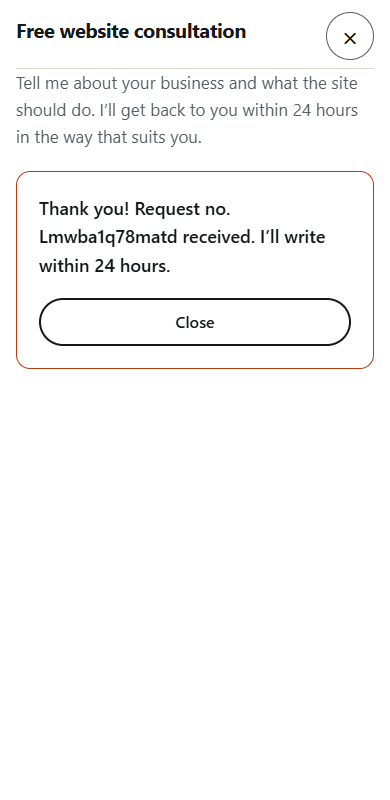
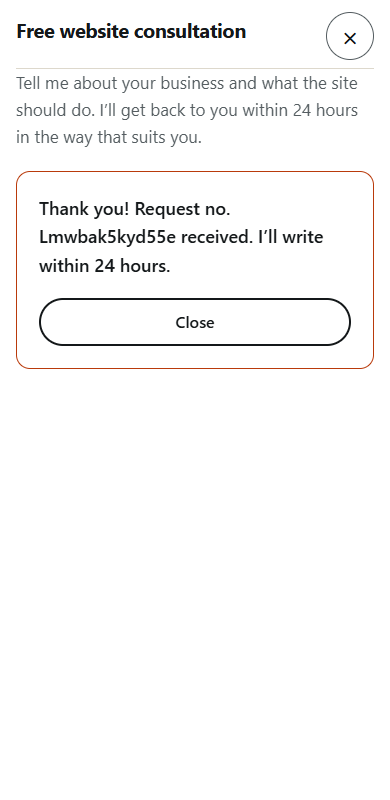
New prices (UAH on UA pages, USD on EN), deep_audit package
Main pages: new Deep Google Ads + GA4 audit card, updated prices, 4000 UAH / $100 landing promo with struck-through regular price, ads from price per month. /sites/: landing from 10 000 UAH / $250 with promo badge, site from 18 000 UAH / $450. deep_audit option in all form selects, JSON-LD offers with UAH/USD, meta descriptions, AGENTS.md. del and .card__promo styles. style.css v=8 on all six pages.

Changed region(s): [[0.2462, 0.2812, 0.8308, 0.3125]]

diff --git a/ua/index.html b/ua/index.html
@@ -4,7 +4,7 @@
 <meta charset="utf-8">
 <meta name="viewport" content="width=device-width, initial-scale=1">
 <title>Fitsak Studio — GA4, Google Ads і швидкі лендинги для малого бізнесу</title>
-<meta name="description" content="Максим Фіцак (Fitsak Studio) допомагає малому бізнесу та інтернет-магазинам: GA4 конверсійна аналітика, чистка Google Ads, швидкі лендинги. Безкоштовний аудит, аналітика від $150.">
+<meta name="description" content="Максим Фіцак (Fitsak Studio) допомагає малому бізнесу та інтернет-магазинам: GA4 конверсійна аналітика, чистка Google Ads, швидкі лендинги. Безкоштовний аудит, аналітика від 4 000 грн.">
 <meta name="color-scheme" content="light dark">
 <meta name="theme-color" content="#f6f4ef" media="(prefers-color-scheme: light)">
 <meta name="theme-color" content="#101312" media="(prefers-color-scheme: dark)">
@@ -27,7 +27,7 @@
 <meta property="og:locale" content="uk_UA">
 <meta property="og:locale:alternate" content="en_US">
 <meta name="twitter:card" content="summary_large_image">
-<link rel="stylesheet" href="../css/style.css?v=7">
+<link rel="stylesheet" href="../css/style.css?v=8">
 <script type="application/ld+json">
 {
   "@context": "https://schema.org",
@@ -54,11 +54,12 @@
       "areaServed": "Worldwide",
       "availableLanguage": ["Ukrainian", "English", "Czech"],
       "makesOffer": [
-        { "@type": "Offer", "itemOffered": { "@type": "Service", "name": "Безкоштовний аудит" }, "priceSpecification": { "@type": "PriceSpecification", "price": 0, "priceCurrency": "USD" } },
-        { "@type": "Offer", "itemOffered": { "@type": "Service", "name": "Аналітика під ключ" }, "priceSpecification": { "@type": "PriceSpecification", "minPrice": 150, "priceCurrency": "USD" } },
-        { "@type": "Offer", "itemOffered": { "@type": "Service", "name": "Ремонт сайту" }, "priceSpecification": { "@type": "PriceSpecification", "minPrice": 500, "priceCurrency": "USD" } },
-        { "@type": "Offer", "itemOffered": { "@type": "Service", "name": "Лендинг + аналітика" }, "priceSpecification": { "@type": "PriceSpecification", "minPrice": 500, "priceCurrency": "USD" } },
-        { "@type": "Offer", "itemOffered": { "@type": "Service", "name": "Ведення Google Ads" } }
+        { "@type": "Offer", "itemOffered": { "@type": "Service", "name": "Безкоштовний аудит" }, "priceSpecification": { "@type": "PriceSpecification", "price": 0, "priceCurrency": "UAH" } },
+        { "@type": "Offer", "itemOffered": { "@type": "Service", "name": "Глибокий аудит Google Ads + GA4" }, "priceSpecification": { "@type": "PriceSpecification", "price": 2000, "priceCurrency": "UAH" } },
+        { "@type": "Offer", "itemOffered": { "@type": "Service", "name": "Аналітика під ключ" }, "priceSpecification": { "@type": "PriceSpecification", "minPrice": 4000, "priceCurrency": "UAH" } },
+        { "@type": "Offer", "itemOffered": { "@type": "Service", "name": "Лендинг + аналітика" }, "priceSpecification": { "@type": "PriceSpecification", "minPrice": 10000, "priceCurrency": "UAH" } },
+        { "@type": "Offer", "itemOffered": { "@type": "Service", "name": "Ремонт сайту" }, "priceSpecification": { "@type": "PriceSpecification", "minPrice": 12000, "priceCurrency": "UAH" } },
+        { "@type": "Offer", "itemOffered": { "@type": "Service", "name": "Ведення Google Ads" }, "priceSpecification": { "@type": "PriceSpecification", "minPrice": 7000, "priceCurrency": "UAH" } }
       ]
     }
   ]
@@ -194,32 +195,38 @@
           <div class="card__head">
             <span class="badge">Почніть звідси</span>
             <h3>Безкоштовний аудит</h3>
-            <p class="card__price">$0</p>
+            <p class="card__price">0&nbsp;грн</p>
           </div>
           <p>3–5 конкретних проблем сайту чи реклами і скільки вони вам коштують.</p>
           <a class="btn btn--primary" href="#audit" data-service="audit" data-package="audit">Отримати аудит</a>
         </article>
         <article class="card">
+          <h3>Глибокий аудит Google Ads + GA4</h3>
+          <p class="card__price">2&nbsp;000&nbsp;грн</p>
+          <p>Повний розбір акаунта Google Ads і налаштувань GA4: що зливає бюджет, що не відстежується, і план виправлень у PDF.</p>
+          <a class="btn btn--small" href="#audit" data-service="deep_audit" data-package="deep_audit">Замовити</a>
+        </article>
+        <article class="card">
           <h3>Аналітика під ключ</h3>
-          <p class="card__price"><span>від</span>$150</p>
+          <p class="card__price"><span>від</span>4&nbsp;000&nbsp;грн</p>
           <p>GA4/GTM, події від кліку до заявки, перевірка й звіт.</p>
           <a class="btn btn--small" href="#audit" data-service="analytics" data-package="analytics">Обговорити</a>
         </article>
         <article class="card">
+          <h3>Лендинг + аналітика</h3>
+          <p class="card__price"><span>від</span>10&nbsp;000&nbsp;грн</p>
+          <p>Перші 3 клієнти — 4&nbsp;000&nbsp;грн замість <del>10&nbsp;000&nbsp;грн</del> в обмін на чесний відгук. До 30.11.2026, передоплата 50%.</p>
+          <a class="btn btn--small" href="sites/" data-service="landing">Детальніше</a>
+        </article>
+        <article class="card">
           <h3>Ремонт сайту</h3>
-          <p class="card__price"><span>від</span>$500</p>
+          <p class="card__price"><span>від</span>12&nbsp;000&nbsp;грн</p>
           <p>Помилки, мобільна версія, швидкість, форми й трекінг. Звіт до/після.</p>
           <a class="btn btn--small" href="#audit" data-service="repair" data-package="repair">Обговорити</a>
         </article>
         <article class="card">
-          <h3>Лендинг + аналітика</h3>
-          <p class="card__price"><span>від</span>$500</p>
-          <p>Перші 3 клієнти — $100 в обмін на чесний відгук. До 30.11.2026, передоплата 50%.</p>
-          <a class="btn btn--small" href="sites/" data-service="landing">Детальніше</a>
-        </article>
-        <article class="card">
           <h3>Ведення Google Ads</h3>
-          <p class="card__price card__price--text"><span>щомісяця</span>ціна після аудиту</p>
+          <p class="card__price"><span>від</span>7&nbsp;000&nbsp;грн<span>/міс</span></p>
           <p>Кампанії, мінус-слова, звіт щомісяця.</p>
           <a class="btn btn--small" href="#audit" data-service="ads" data-package="ads">Обговорити</a>
         </article>
@@ -332,6 +339,7 @@
           <label for="f-package">Пакет</label>
           <select id="f-package" name="package" aria-describedby="f-package-err">
             <option value="audit" selected>Безкоштовний аудит</option>
+            <option value="deep_audit">Глибокий аудит Google Ads + GA4 (PDF)</option>
             <option value="analytics">Аналітика під ключ</option>
             <option value="repair">Ремонт сайту</option>
             <option value="landing">Лендинг + аналітика</option>

diff --git a/index.html b/index.html
@@ -4,7 +4,7 @@
 <meta charset="utf-8">
 <meta name="viewport" content="width=device-width, initial-scale=1">
 <title>Fitsak Studio — GA4 tracking, Google Ads &amp; fast landing pages</title>
-<meta name="description" content="Maksym Fitsak (Fitsak Studio) helps small businesses and online stores with GA4 conversion tracking, Google Ads cleanup and fast landing pages. Free audit, analytics from $150.">
+<meta name="description" content="Maksym Fitsak (Fitsak Studio) helps small businesses and online stores with GA4 conversion tracking, Google Ads cleanup and fast landing pages. Free audit, analytics from $100.">
 <meta name="color-scheme" content="light dark">
 <meta name="theme-color" content="#f6f4ef" media="(prefers-color-scheme: light)">
 <meta name="theme-color" content="#101312" media="(prefers-color-scheme: dark)">
@@ -27,7 +27,7 @@
 <meta property="og:locale" content="en_US">
 <meta property="og:locale:alternate" content="uk_UA">
 <meta name="twitter:card" content="summary_large_image">
-<link rel="stylesheet" href="css/style.css?v=7">
+<link rel="stylesheet" href="css/style.css?v=8">
 <script type="application/ld+json">
 {
   "@context": "https://schema.org",
@@ -54,10 +54,11 @@
       "availableLanguage": ["Ukrainian", "English", "Czech"],
       "makesOffer": [
         { "@type": "Offer", "itemOffered": { "@type": "Service", "name": "Free audit" }, "priceSpecification": { "@type": "PriceSpecification", "price": 0, "priceCurrency": "USD" } },
-        { "@type": "Offer", "itemOffered": { "@type": "Service", "name": "Turnkey analytics" }, "priceSpecification": { "@type": "PriceSpecification", "minPrice": 150, "priceCurrency": "USD" } },
-        { "@type": "Offer", "itemOffered": { "@type": "Service", "name": "Site repair" }, "priceSpecification": { "@type": "PriceSpecification", "minPrice": 500, "priceCurrency": "USD" } },
-        { "@type": "Offer", "itemOffered": { "@type": "Service", "name": "Landing page + analytics" }, "priceSpecification": { "@type": "PriceSpecification", "minPrice": 500, "priceCurrency": "USD" } },
-        { "@type": "Offer", "itemOffered": { "@type": "Service", "name": "Google Ads management" } }
+        { "@type": "Offer", "itemOffered": { "@type": "Service", "name": "Deep Google Ads + GA4 audit" }, "priceSpecification": { "@type": "PriceSpecification", "price": 50, "priceCurrency": "USD" } },
+        { "@type": "Offer", "itemOffered": { "@type": "Service", "name": "Turnkey analytics" }, "priceSpecification": { "@type": "PriceSpecification", "minPrice": 100, "priceCurrency": "USD" } },
+        { "@type": "Offer", "itemOffered": { "@type": "Service", "name": "Landing page + analytics" }, "priceSpecification": { "@type": "PriceSpecification", "minPrice": 250, "priceCurrency": "USD" } },
+        { "@type": "Offer", "itemOffered": { "@type": "Service", "name": "Site repair" }, "priceSpecification": { "@type": "PriceSpecification", "minPrice": 300, "priceCurrency": "USD" } },
+        { "@type": "Offer", "itemOffered": { "@type": "Service", "name": "Google Ads management" }, "priceSpecification": { "@type": "PriceSpecification", "minPrice": 170, "priceCurrency": "USD" } }
       ]
     }
   ]
@@ -200,26 +201,32 @@
           <a class="btn btn--primary" href="#audit" data-service="audit" data-package="audit">Get audit</a>
         </article>
         <article class="card">
+          <h3>Deep Google Ads + GA4 audit</h3>
+          <p class="card__price">$50</p>
+          <p>A full review of your Google Ads account and GA4 setup: what wastes budget, what isn’t tracked, and a fix plan in a PDF.</p>
+          <a class="btn btn--small" href="#audit" data-service="deep_audit" data-package="deep_audit">Order</a>
+        </article>
+        <article class="card">
           <h3>Turnkey analytics</h3>
-          <p class="card__price"><span>from</span>$150</p>
+          <p class="card__price"><span>from</span>$100</p>
           <p>GA4/GTM, events from click to enquiry, checks and a report.</p>
           <a class="btn btn--small" href="#audit" data-service="analytics" data-package="analytics">Discuss</a>
         </article>
         <article class="card">
+          <h3>Landing page + analytics</h3>
+          <p class="card__price"><span>from</span>$250</p>
+          <p>First 3 clients — $100 instead of <del>$250</del> for an honest review. Until 30 Nov 2026, 50% prepayment.</p>
+          <a class="btn btn--small" href="sites/" data-service="landing">Details</a>
+        </article>
+        <article class="card">
           <h3>Site repair</h3>
-          <p class="card__price"><span>from</span>$500</p>
+          <p class="card__price"><span>from</span>$300</p>
           <p>Errors, mobile version, speed, forms and tracking. Before/after report.</p>
           <a class="btn btn--small" href="#audit" data-service="repair" data-package="repair">Discuss</a>
         </article>
         <article class="card">
-          <h3>Landing page + analytics</h3>
-          <p class="card__price"><span>from</span>$500</p>
-          <p>First 3 clients — $100 in exchange for an honest review. Until 30 Nov 2026, 50% prepayment.</p>
-          <a class="btn btn--small" href="sites/" data-service="landing">Details</a>
-        </article>
-        <article class="card">
           <h3>Google Ads management</h3>
-          <p class="card__price card__price--text"><span>monthly</span>price after audit</p>
+          <p class="card__price"><span>from</span>$170<span>/mo</span></p>
           <p>Campaigns, negative keywords, a monthly report.</p>
           <a class="btn btn--small" href="#audit" data-service="ads" data-package="ads">Discuss</a>
         </article>
@@ -332,6 +339,7 @@
           <label for="f-package">Package</label>
           <select id="f-package" name="package" aria-describedby="f-package-err">
             <option value="audit" selected>Free audit</option>
+            <option value="deep_audit">Deep Google Ads + GA4 audit (PDF)</option>
             <option value="analytics">Turnkey analytics</option>
             <option value="repair">Site repair</option>
             <option value="landing">Landing page + analytics</option>

diff --git a/ua/sites/index.html b/ua/sites/index.html
@@ -4,7 +4,7 @@
 <meta charset="utf-8">
 <meta name="viewport" content="width=device-width, initial-scale=1">
 <title>Сайти під ключ для малого бізнесу — Fitsak Studio</title>
-<meta name="description" content="Безкоштовна консультація. Лендинг від $500, сайт від $900. Дизайн, швидкість, форма заявки й GA4 з першого дня.">
+<meta name="description" content="Безкоштовна консультація. Лендинг від 10 000 грн, сайт від 18 000 грн. Дизайн, швидкість, форма заявки й GA4 з першого дня.">
 <meta name="color-scheme" content="light dark">
 <meta name="theme-color" content="#f6f4ef" media="(prefers-color-scheme: light)">
 <meta name="theme-color" content="#101312" media="(prefers-color-scheme: dark)">
@@ -18,7 +18,7 @@
 <meta property="og:type" content="website">
 <meta property="og:site_name" content="Fitsak Studio">
 <meta property="og:title" content="Сайти під ключ для малого бізнесу — Fitsak Studio">
-<meta property="og:description" content="Безкоштовна консультація. Лендинг від $500, сайт від $900. Дизайн, швидкість, форма заявки й GA4 з першого дня.">
+<meta property="og:description" content="Безкоштовна консультація. Лендинг від 10 000 грн, сайт від 18 000 грн. Дизайн, швидкість, форма заявки й GA4 з першого дня.">
 <meta property="og:url" content="https://fitsak.com/ua/sites/">
 <meta property="og:image" content="https://fitsak.com/assets/og.png">
 <meta property="og:image:width" content="1200">
@@ -27,7 +27,7 @@
 <meta property="og:locale" content="uk_UA">
 <meta property="og:locale:alternate" content="en_US">
 <meta name="twitter:card" content="summary_large_image">
-<link rel="stylesheet" href="../../css/style.css?v=7">
+<link rel="stylesheet" href="../../css/style.css?v=8">
 <script type="application/ld+json">
 {
   "@context": "https://schema.org",
@@ -49,7 +49,7 @@
       "priceSpecification": {
         "@type": "PriceSpecification",
         "price": 0,
-        "priceCurrency": "USD"
+        "priceCurrency": "UAH"
       }
     },
     {
@@ -60,8 +60,8 @@
       },
       "priceSpecification": {
         "@type": "PriceSpecification",
-        "minPrice": 500,
-        "priceCurrency": "USD"
+        "minPrice": 10000,
+        "priceCurrency": "UAH"
       }
     },
     {
@@ -72,8 +72,8 @@
       },
       "priceSpecification": {
         "@type": "PriceSpecification",
-        "minPrice": 900,
-        "priceCurrency": "USD"
+        "minPrice": 18000,
+        "priceCurrency": "UAH"
       }
     },
     {
@@ -168,16 +168,16 @@
       <h2 class="h2">Три формати роботи</h2>
       <div class="cards cards--three">
         <article class="card">
-          <span class="badge">Перші 3 клієнти — $100</span>
+          <p class="card__promo"><span class="badge">Перші 3 клієнти — 4&nbsp;000&nbsp;грн</span> <del>10&nbsp;000&nbsp;грн</del></p>
           <h3>Лендинг</h3>
-          <p class="card__price"><span>від</span>$500</p>
+          <p class="card__price"><span>від</span>10&nbsp;000&nbsp;грн</p>
           <p>Одна сторінка під одну послугу чи рекламу. Від 2–3 днів.</p>
           <p class="card__fine">в обмін на чесний відгук, до 30.11.2026, передоплата 50%</p>
           <a class="btn btn--small" href="#contact-fallback" data-open-consult data-cta="sites_pricing_landing" data-package="landing">Хочу лендинг</a>
         </article>
         <article class="card">
           <h3>Сайт 5–10 сторінок</h3>
-          <p class="card__price"><span>від</span>$900</p>
+          <p class="card__price"><span>від</span>18&nbsp;000&nbsp;грн</p>
           <p>Головна, послуги, ціни, про вас, контакти, окремі сторінки під пошукові запити. До 14 днів.</p>
           <a class="btn btn--small" href="#contact-fallback" data-open-consult data-cta="sites_pricing_site" data-package="site">Хочу сайт</a>
         </article>
@@ -360,6 +360,7 @@
             <option value="site">Сайт 5–10 сторінок</option>
             <option value="support">Підтримка</option>
             <option value="audit">Безкоштовний аудит</option>
+            <option value="deep_audit">Глибокий аудит Google Ads + GA4 (PDF)</option>
             <option value="analytics">Аналітика під ключ</option>
             <option value="repair">Ремонт сайту</option>
             <option value="ads">Ведення Google Ads</option>

diff --git a/sites/index.html b/sites/index.html
@@ -4,7 +4,7 @@
 <meta charset="utf-8">
 <meta name="viewport" content="width=device-width, initial-scale=1">
 <title>Websites for small business — Fitsak Studio</title>
-<meta name="description" content="Free consultation. Landing page from $500, website from $900. Design, speed, lead form and GA4 from day one.">
+<meta name="description" content="Free consultation. Landing page from $250, website from $450. Design, speed, lead form and GA4 from day one.">
 <meta name="color-scheme" content="light dark">
 <meta name="theme-color" content="#f6f4ef" media="(prefers-color-scheme: light)">
 <meta name="theme-color" content="#101312" media="(prefers-color-scheme: dark)">
@@ -18,7 +18,7 @@
 <meta property="og:type" content="website">
 <meta property="og:site_name" content="Fitsak Studio">
 <meta property="og:title" content="Websites for small business — Fitsak Studio">
-<meta property="og:description" content="Free consultation. Landing page from $500, website from $900. Design, speed, lead form and GA4 from day one.">
+<meta property="og:description" content="Free consultation. Landing page from $250, website from $450. Design, speed, lead form and GA4 from day one.">
 <meta property="og:url" content="https://fitsak.com/sites/">
 <meta property="og:image" content="https://fitsak.com/assets/og.png">
 <meta property="og:image:width" content="1200">
@@ -27,7 +27,7 @@
 <meta property="og:locale" content="en_US">
 <meta property="og:locale:alternate" content="uk_UA">
 <meta name="twitter:card" content="summary_large_image">
-<link rel="stylesheet" href="../css/style.css?v=7">
+<link rel="stylesheet" href="../css/style.css?v=8">
 <script type="application/ld+json">
 {
   "@context": "https://schema.org",
@@ -60,7 +60,7 @@
       },
       "priceSpecification": {
         "@type": "PriceSpecification",
-        "minPrice": 500,
+        "minPrice": 250,
         "priceCurrency": "USD"
       }
     },
@@ -72,7 +72,7 @@
       },
       "priceSpecification": {
         "@type": "PriceSpecification",
-        "minPrice": 900,
+        "minPrice": 450,
         "priceCurrency": "USD"
       }
     },
@@ -168,16 +168,16 @@
       <h2 class="h2">Three ways to work together</h2>
       <div class="cards cards--three">
         <article class="card">
-          <span class="badge">First 3 clients — $100</span>
+          <p class="card__promo"><span class="badge">First 3 clients — $100</span> <del>$250</del></p>
           <h3>Landing page</h3>
-          <p class="card__price"><span>from</span>$500</p>
+          <p class="card__price"><span>from</span>$250</p>
           <p>One page for one service or ad campaign. From 2–3 days.</p>
           <p class="card__fine">in exchange for an honest review, until 30 Nov 2026, 50% prepayment</p>
           <a class="btn btn--small" href="#contact-fallback" data-open-consult data-cta="sites_pricing_landing" data-package="landing">I want a landing page</a>
         </article>
         <article class="card">
           <h3>Website, 5–10 pages</h3>
-          <p class="card__price"><span>from</span>$900</p>
+          <p class="card__price"><span>from</span>$450</p>
           <p>Home, services, prices, about you, contacts, separate pages for search queries. Up to 14 days.</p>
           <a class="btn btn--small" href="#contact-fallback" data-open-consult data-cta="sites_pricing_site" data-package="site">I want a website</a>
         </article>
@@ -360,6 +360,7 @@
             <option value="site">Website, 5–10 pages</option>
             <option value="support">Support</option>
             <option value="audit">Free audit</option>
+            <option value="deep_audit">Deep Google Ads + GA4 audit (PDF)</option>
             <option value="analytics">Turnkey analytics</option>
             <option value="repair">Site repair</option>
             <option value="ads">Google Ads management</option>

diff --git a/ua/privacy/index.html b/ua/privacy/index.html
@@ -13,7 +13,7 @@
 <link rel="icon" href="../../favicon.svg" type="image/svg+xml">
 <link rel="icon" href="../../favicon-32.png" sizes="32x32" type="image/png">
 <link rel="apple-touch-icon" href="../../apple-touch-icon.png">
-<link rel="stylesheet" href="../../css/style.css?v=7">
+<link rel="stylesheet" href="../../css/style.css?v=8">
 </head>
 <body>
 <a class="skip" href="#main">Перейти до змісту</a>

diff --git a/privacy/index.html b/privacy/index.html
@@ -13,7 +13,7 @@
 <link rel="icon" href="../favicon.svg" type="image/svg+xml">
 <link rel="icon" href="../favicon-32.png" sizes="32x32" type="image/png">
 <link rel="apple-touch-icon" href="../apple-touch-icon.png">
-<link rel="stylesheet" href="../css/style.css?v=7">
+<link rel="stylesheet" href="../css/style.css?v=8">
 </head>
 <body>
 <a class="skip" href="#main">Skip to content</a>

diff --git a/css/style.css b/css/style.css
@@ -339,3 +339,6 @@ body.is-dialog-open .sticky-cta { display: none; }
   .form__submit .btn { width: 100%; }
   .dialog .form-success .btn { width: 100%; }
 }
+
+del { color: var(--muted); }
+.card .card__promo { flex: none; display: flex; flex-wrap: wrap; align-items: center; gap: 6px 12px; }

diff --git a/AGENTS.md b/AGENTS.md
@@ -35,17 +35,17 @@ Every event is sent only if `typeof gtag === "function"`, inside try/catch, with
 | --- | --- | --- |
 | `cta_click` | `cta_location` (main pages: `header_audit`, `header_sites`, `hero_audit`, `hero_case`, `hero_proof`, `sticky_audit`; /sites/: `header_consult`, `sites_hero`, `sites_pricing_landing`, `sites_pricing_site`, `sites_pricing_support`, `sites_case`, `sticky_consult`), `page_language` | Click on an element with `data-cta` |
 | `case_view` | `page_language` | Case section (`#case`) at least 50% visible, or filling half the screen. Once per page view |
-| `service_click` | `service_name` (`audit`, `analytics`, `repair`, `landing`, `ads`; same as `data-package` and the form select), `page_language` | Click on a service card button |
+| `service_click` | `service_name` (`audit`, `deep_audit`, `analytics`, `repair`, `landing`, `ads`; same as `data-package` and the form select), `page_language` | Click on a service card button |
 | `contact_click` | `channel` (`fiverr`, `email`, `telegram`, `email_copy`), `page_language` | Click on a contact button; `email_copy` after a successful copy |
 | `scroll_depth` | `percent` (25, 50, 75), `page_language` | Page scrolled to that depth, once each |
 | `section_view` | `section_name` (`hero`, `problem`, `case`, `services`, `examples`, `how`, `about`, `audit`, `contact`), `page_language` | Section visible as for `case_view`, once each (`examples` = "Tracking examples" block, `audit` = audit request form; /sites/ adds `included`, `pricing`, `faq`; its `contact` section is `#contact-fallback`) |
-| `audit_form_start` | `form_package` (`audit`, `analytics`, `repair`, `landing`, `ads`, `site`, `support`, `consult`), `form_type` (`audit` or `consult`), `page_language` | First real interaction (focus or typing) in the audit or consultation form. The only form-start event: GA4 Enhanced measurement also sends its own `form_start`; keep "Form interactions" off in GA4. Once per page view; programmatic focus from a package button does not count |
+| `audit_form_start` | `form_package` (`audit`, `deep_audit`, `analytics`, `repair`, `landing`, `ads`, `site`, `support`, `consult`), `form_type` (`audit` or `consult`), `page_language` | First real interaction (focus or typing) in the audit or consultation form. The only form-start event: GA4 Enhanced measurement also sends its own `form_start`; keep "Form interactions" off in GA4. Once per page view; programmatic focus from a package button does not count |
 | `consult_open` | `cta_location` (the opener's `data-cta`), `form_package` (the package preselected by the opener), `page_language` | The consultation dialog is opened by a `data-open-consult` button on /sites/. No personal data |
 | `generate_lead` | `form_package`, `form_type` (`audit` or `consult`), `lead_id` (`L` + time + 4 chars, also in the lead email), `lead_source` (`utm_source` or `direct`), `page_language` | Audit or consultation form accepted by Web3Forms. Never carries name, website, contact, business or message |
 | `language_switch` | `to_language` (`en`, `ua`), `page_language` (language being left) | Click on a language link |
 | `outbound_click` | `link_domain`, `page_language` | Click on an http(s) link to another host (domain only, never the full URL) |
 
-Package buttons (`data-package` with an `href="#id"`) pick the package in the form of the current page (`#audit`) and scroll to it. Buttons with `data-open-consult` (+ `data-package`, `href="#contact-fallback"`) open the consultation dialog instead: package preselected, focus on the name field, page scroll locked (`body.is-dialog-open`, sticky button hidden); closing (×, Esc, backdrop) returns focus to the opener and keeps typed data; after a sent request the form is reset on the next open. The main-page "Landing page + analytics" card links to `sites/` instead and only sends `service_click`. `?package=X` in an external link preselects the package once on load and scrolls to the form, only for forms placed on the page (not for the dialog). Package values are the same in every form: `audit`, `analytics`, `repair`, `landing`, `ads`, `site`, `support`, `consult`. Any `form[data-form-type]` is handled by the same code in `app.js` (`data-subject` = mail subject prefix; the consultation form also sends `preferred` and `business`). Sent leads go through Web3Forms (`WEB3FORMS_KEY`); no personal data is stored in the repo.
+Package buttons (`data-package` with an `href="#id"`) pick the package in the form of the current page (`#audit`) and scroll to it. Buttons with `data-open-consult` (+ `data-package`, `href="#contact-fallback"`) open the consultation dialog instead: package preselected, focus on the name field, page scroll locked (`body.is-dialog-open`, sticky button hidden); closing (×, Esc, backdrop) returns focus to the opener and keeps typed data; after a sent request the form is reset on the next open. The main-page "Landing page + analytics" card links to `sites/` instead and only sends `service_click`. `?package=X` in an external link preselects the package once on load and scrolls to the form, only for forms placed on the page (not for the dialog). Package values are the same in every form: `audit`, `deep_audit`, `analytics`, `repair`, `landing`, `ads`, `site`, `support`, `consult`. Any `form[data-form-type]` is handled by the same code in `app.js` (`data-subject` = mail subject prefix; the consultation form also sends `preferred` and `business`). Sent leads go through Web3Forms (`WEB3FORMS_KEY`); no personal data is stored in the repo.
 
 ### Forms without JavaScript
 
